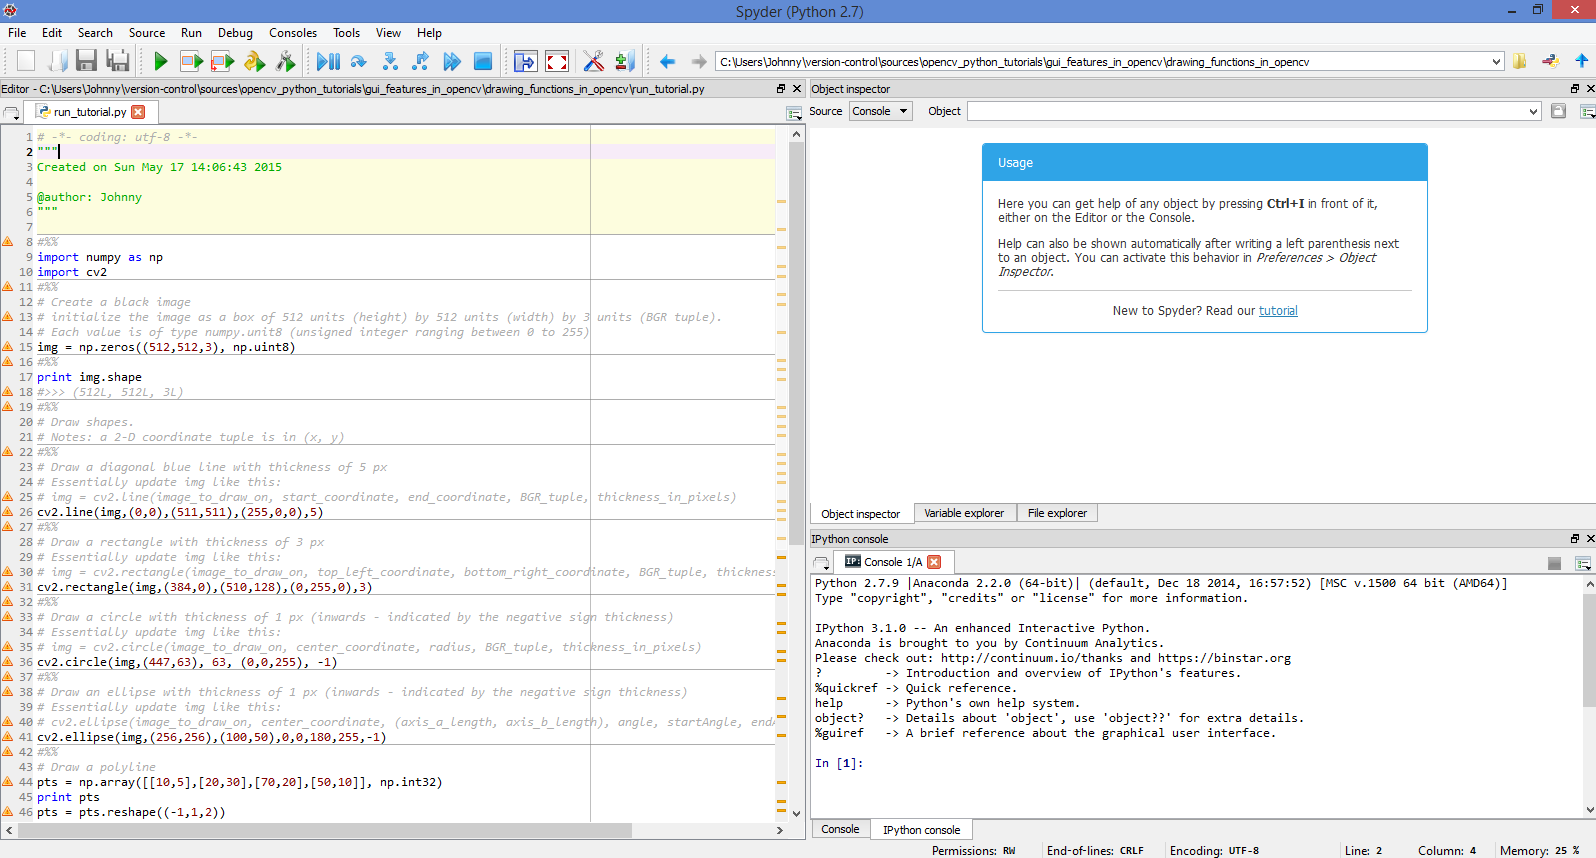
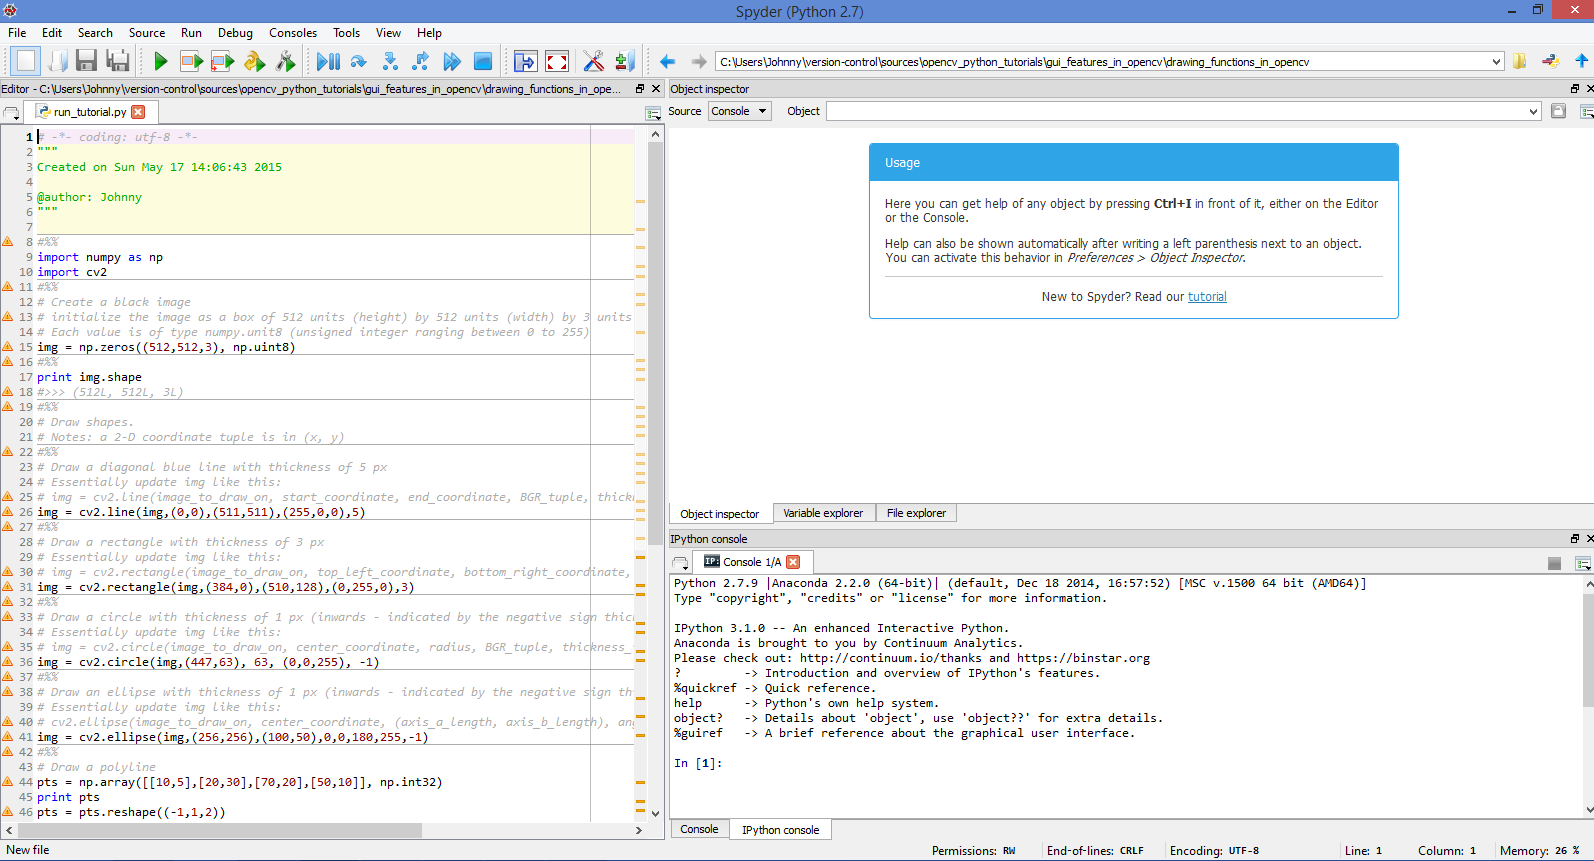
tidy up drawing_functions_in_opencv lesson to use OpenCV 3.x only

diff --git a/gui_features_in_opencv/drawing_functions_in_opencv/run_tutorial.py b/gui_features_in_opencv/drawing_functions_in_opencv/run_tutorial.py
@@ -23,22 +23,22 @@ print img.shape
 # Draw a diagonal blue line with thickness of 5 px
 # Essentially update img like this:
 # img = cv2.line(image_to_draw_on, start_coordinate, end_coordinate, BGR_tuple, thickness_in_pixels)
-cv2.line(img,(0,0),(511,511),(255,0,0),5)
+img = cv2.line(img,(0,0),(511,511),(255,0,0),5)
 #%%
 # Draw a rectangle with thickness of 3 px
 # Essentially update img like this:
 # img = cv2.rectangle(image_to_draw_on, top_left_coordinate, bottom_right_coordinate, BGR_tuple, thickness_in_pixels)
-cv2.rectangle(img,(384,0),(510,128),(0,255,0),3)
+img = cv2.rectangle(img,(384,0),(510,128),(0,255,0),3)
 #%%
 # Draw a circle with thickness of 1 px (inwards - indicated by the negative sign thickness)
 # Essentially update img like this:
 # img = cv2.circle(image_to_draw_on, center_coordinate, radius, BGR_tuple, thickness_in_pixels)
-cv2.circle(img,(447,63), 63, (0,0,255), -1)
+img = cv2.circle(img,(447,63), 63, (0,0,255), -1)
 #%%
 # Draw an ellipse with thickness of 1 px (inwards - indicated by the negative sign thickness)
 # Essentially update img like this:
 # cv2.ellipse(image_to_draw_on, center_coordinate, (axis_a_length, axis_b_length), angle, startAngle, endAngle, color, thickness)
-cv2.ellipse(img,(256,256),(100,50),0,0,180,255,-1)
+img = cv2.ellipse(img,(256,256),(100,50),0,0,180,255,-1)
 #%%
 # Draw a polyline
 pts = np.array([[10,5],[20,30],[70,20],[50,10]], np.int32)
@@ -51,9 +51,9 @@ cv2.polylines(img,[pts],True,(0,255,255))
 # Draw text
 font = cv2.FONT_HERSHEY_SIMPLEX
 # Python 3.x version uses cv2.LINE_AA 
-#cv2.putText(img,'OpenCV',(10,500), font, 4,(255,255,255),2,cv2.LINE_AA)
+cv2.putText(img,'OpenCV',(10,500), font, 4,(255,255,255),2,cv2.LINE_AA)
 # Python 2.x version uses cv2.CV_AA
-cv2.putText(img,'OpenCV',(10,500), font, 4,(255,255,255),2,cv2.CV_AA)
+#cv2.putText(img,'OpenCV',(10,500), font, 4,(255,255,255),2,cv2.CV_AA)
 #%%
 # Display image in a window.
 
